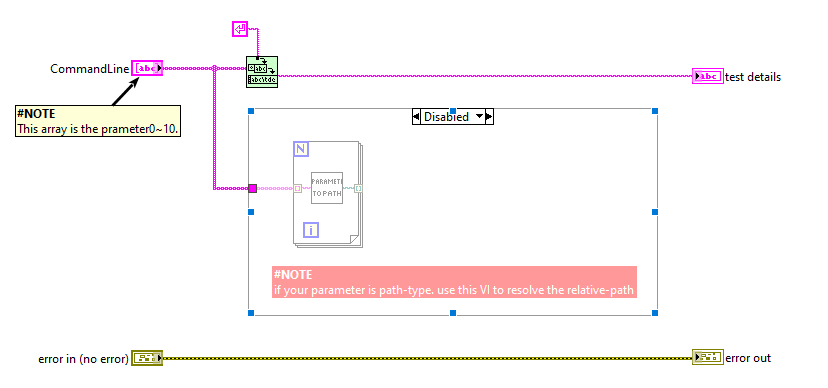
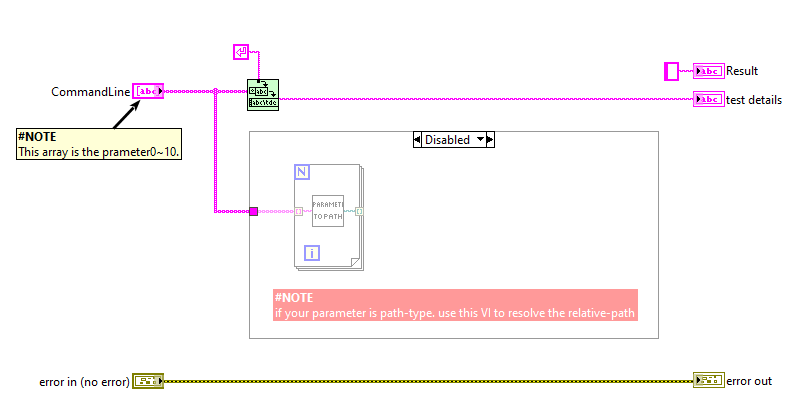
add result description

Changed region(s): [[0.0, 0.0309, 0.9901, 0.8351], [0.0309, 0.8969, 0.9592, 0.9588], [0.7735, 0.5258, 0.8045, 0.5567]]

diff --git a/docs/Operation-List.md b/docs/Operation-List.md
@@ -5,31 +5,39 @@
 ### `lvEcho` : Echo all the parameters to outputs
 
     Parameters:
-    1. All Parameters will be echoed to output.
+        1. All Parameters will be echoed to output.
+    Result:
+        String concatenated with all parameters
 
 ### `lvBuild` : Build the LabVIEW Projects specified
 
     Parameters:
-    Parameter1. (required) LabVIEW Project File Path
-    Parameter2. (option) name of Build Specification, Empty to build all
-       - "" as Default
-    Parameter3. (option) Name of Target
-       - "My Computer" as Default
+        Parameter1. (required) LabVIEW Project File Path
+        Parameter2. (option) name of Build Specification, Empty to build all
+           - "" as Default
+        Parameter3. (option) Name of Target
+           - "My Computer" as Default
+    Result:
+        N/A
 
 ### `lvCopy` : Copy Files using LabVIEW VIs
 
     Parameters:
-    Parameter1. (required) Dest-Folder/Files of Copy operation
-    Parameter2-10. (optional) Source Files of Copy operation
-        - If no '*' contained in file name, the specified file path will be used.
-        - If '*' in file name, the file name is the search pattern. Files in folder with the pattern will all be used as source-path.
+        Parameter1. (required) Dest-Folder/Files of Copy operation
+        Parameter2-10. (optional) Source Files of Copy operation
+            - If no '*' contained in file name, the specified file path will be used.
+            - If '*' in file name, the file name is the search pattern. Files in folder with the pattern will all be used as source-path.
+    Result:
+        N/A
 
 ## Test Related Operations
 
 ### `StartVITester` : Start JKI VI Tester to run test cases
 
     Parameters:
-    Parameter1. (required) LabVIEW Project File Path which contains the VITester test cases
+        Parameter1. (required) LabVIEW Project File Path which contains the VITester test cases
+    Result:
+        N/A
 
 ## VIPM related Operations
 
@@ -40,35 +48,45 @@ Requirements:
 ### `vipm_InstallPackagesByPath` : install vip file
 
     Parameters:
-    1. All Parameters accept a vip file path
-       1. For regular file path, the full file path will be used.
-       2. If the path not end with '.vip', recursively search will be executed the path with last part of path as pattern.
-       3. If the last part of path contains '*', recursively search will be executed the path with last part of path as pattern.
+        1. All Parameters accept a vip file path
+           1. For regular file path, the full file path will be used.
+           2. If the path not end with '.vip', recursively search will be executed the path with last part of path as pattern.
+           3. If the last part of path contains '*', recursively search will be executed the path with last part of path as pattern.
+    Result:
+        N/A
 
 ### `vipm_InstallPackagesByName` : install vip by Package Name
 
     Parameters:
-    1. All Parameters accept a package name, the latest version will be used.
+        1. All Parameters accept a package name, the latest version will be used.
+    Result:
+        N/A
 
 ### `vipm_unInstallPackagesByName` : unInstall vip by Package Name
 
     Parameters:
-    1. All Parameters accept a package name, the latest version of installed will be used.
+        1. All Parameters accept a package name, the latest version of installed will be used.
+    Result:
+        N/A
 
 ### `vipm_BuildDailyVIP` : Build VIPM Library
 
     Parameters:
-    Parameter1. (required) vipb File Path
-    Parameter2. (required) Install? : YES/NO
-    Parameter3. (option) CopyDestPath : Path
+        Parameter1. (required) vipb File Path
+        Parameter2. (required) Install? : YES/NO
+        Parameter3. (option) CopyDestPath : Path
+    Result:
+        Generated VIP file path
 
 ### `vipm_ApplyVIPCFile` : Apply VIPC file
 
     Parameters:
-    Parameter1. (required) VIPC File Path
-       1. For regular file path, the full file path will be used.
-       2. If the path not end with '.vipc', recursively search will be executed the path with last part of path as pattern.
-       3. If the last part of path contains '*', recursively search will be executed the path with last part of path as pattern.
+        Parameter1. (required) VIPC File Path
+           1. For regular file path, the full file path will be used.
+           2. If the path not end with '.vipc', recursively search will be executed the path with last part of path as pattern.
+           3. If the last part of path contains '*', recursively search will be executed the path with last part of path as pattern.
+    Result:
+        vipc file path used
 
 ## Operations for build facility
 
@@ -83,13 +101,16 @@ Concepts
 ### `Batch_ListReposBranches` : list all the repos' current branch
 
     Parameters:
-    Parameter1. (required) Searching Folder
+        Parameter1. (required) Searching Folder
+    Result:
+        N/A
 
 ### `Batch_SyncReposToLatest` : Sync all repos to latest on the active branch in specified folder
 
-
     Parameters:
-    Parameter1. (required) Searching Folder
+        Parameter1. (required) Searching Folder
+    Result:
+        N/A
 
 ### `Batch_ListBuildSpecProjects` : list all the build spec projects with build order
 
@@ -100,7 +121,9 @@ Concepts
     If you care about the build orders, or dependent relationship exists, add **Build Index** in **Build Spec Project**.
 
     Parameters:
-    Parameter1. (required) Searching Folder
+        Parameter1. (required) Searching Folder
+    Result:
+        N/A
 
 ### `Batch_TriggerBuild` : Start build in specified folder
 
@@ -111,4 +134,6 @@ Concepts
     If you care about the build orders, or dependent relationship exists, add **Build Index** in **Build Spec Project**.
 
     Parameters:
-    Parameter1. (required) Searching Folder
+        Parameter1. (required) Searching Folder
+    Result:
+        N/A

diff --git a/README.md b/README.md
@@ -65,6 +65,7 @@ You can use **`lvCICD`** to:
   2. Install LabVIEW and its components needed with [NI Package Manger](https://www.ni.com/zh-cn/support/downloads/software-products/download.package-manager.html)
   3. Install [LabVIEW Command line Interface](https://www.ni.com/zh-cn/support/downloads/software-products/download.ni-labview-command-line-interface.html#)
   4. Install dependent VIPM Libraries ([lvCICD.vipc](https://github.com/LV-APT/lvCICD/files/8727600/lvCICD.zip)).
+  5. Install the softwares needed for your own case.
 
 ## Usage
 
@@ -74,10 +75,13 @@ Add this customer-action to `steps` session in github actions yml file.
 
 > Copy this snippet to github workflow yml file and change the `[xxx]` following your self-hosted agent/runner configuration.
 
+> Use `${{ steps.[step-id].result.Result }}` in next steps to use result of lvCICD.
+
 > Check [**lvCICD Operation-List**](docs/Operation-List.md) for detailed information.
 
     - name: [your_action_step_name]
       uses: LV-APT/lvCICD@[lvcicd_version]
+      id: [step-id]
       with:
         Operation: [optional, operation_in_list, 'lvEcho' as default]
         Parameter1: [optional, parameter]
@@ -96,6 +100,7 @@ Add this customer-action to `steps` session in github actions yml file.
 **Example 1**: use `lvEcho` to check runner/agent ready for lvCICD tools.
 
     - name: TestEnvironment
+      id: lvEcho
       uses: LV-APT/lvCICD@v0.2
       with:
         Operation: lvEcho
@@ -106,6 +111,7 @@ Add this customer-action to `steps` session in github actions yml file.
 **Example 2**: use `StartVITester` to run unit test cases in "CICD-LabVIEW-Adapter.lvproj".
 
     - name: Run lvCICD Test cases with VITester
+      id: StartVITester
       uses: LV-APT/lvCICD@v0.2
       with:
         Operation: StartVITester
@@ -138,8 +144,8 @@ Add this customer-action to `steps` session in github actions yml file.
     - task: PowerShell@2
       displayName: Clone lvCICD Tools
       inputs:
-          targetType: 'inline'
-          script: |
+        targetType: 'inline'
+        script: |
           # Show Parameters
           Write-Host "lvCICD-Tool-LocalPath = $(lvCICD-Tool-LocalPath)"
           Write-Host "lvCICD-Tool-URL = $(lvCICD-Tool-URL)"
@@ -159,6 +165,8 @@ Add this customer-action to `steps` session in github actions yml file.
 
 > https://docs.microsoft.com/en-us/azure/devops/pipelines/process/set-variables-scripts?view=azure-devops&tabs=powershell
 
+
+
     - task: PowerShell@2
       displayName: [your_action_step_name]
       inputs:
@@ -166,6 +174,18 @@ Add this customer-action to `steps` session in github actions yml file.
         script: |
           # Write your PowerShell commands here.
           & $(lvCICD) [Operation] [Parameter1] [Parameter2] [Parameter3] ...
+
+> If you need to use Result of lvCICD, use this snippet instead. Change variable name in your case.
+
+    - task: PowerShell@2
+      displayName: [your_action_step_name]
+      inputs:
+        targetType: 'inline'
+        script: |
+          # Write your PowerShell commands here.
+          & $(lvCICD) [Operation] [Parameter1] [Parameter2] [Parameter3] ...
+          $Result=Get-Content -Path "$(lvCICD-Tool-LocalPath)\output.txt";
+          Write-Host "##vso[task.setvariable variable=lvEchoOutput;]$Result"
 
 **Example 1**: use `lvEcho` to check runner/agent ready for lvCICD tools.
 

diff --git a/docs/How-to-contribute.md b/docs/How-to-contribute.md
@@ -8,7 +8,8 @@ Here is what happened after a self-hosted agent/runner receives a task.
 2. The information including `LabVIEW Version` | `LabVIEW Architecture` | `Operation` | `Parameters` will be passed to LabVIEW CLI, through powershell script-call.
     1. In github, You can use customer-action like lvCICD@v0.2 in step. The specified tag of repo will be download implicitly. And lvCICD.ps1 will be called implicitly.
     2. In Azure DevOps, You need to explicitly download lvCICD tools with powershell scripts. And you need to use the tool explicitly in powershell scripts.
-3. LabVIEW CLI start `lvCICD.vi` with specified LabVIEW. The `Operation VI` in script folder will be called in `lvCICD.vi`. Parameters are Passed to `Operation VI`.
+3. LabVIEW CLI start ***lvCICD.vi*** with specified LabVIEW. The ***Operation VI*** in script folder will be called in ***lvCICD.vi***. Parameters are Passed to ***Operation VI***.
+4. ***lvCICD.vi*** saves the `Result` of ***Operation VI*** to 'result.txt'
 
 ## 1. Contribute to powershell scripts
 
